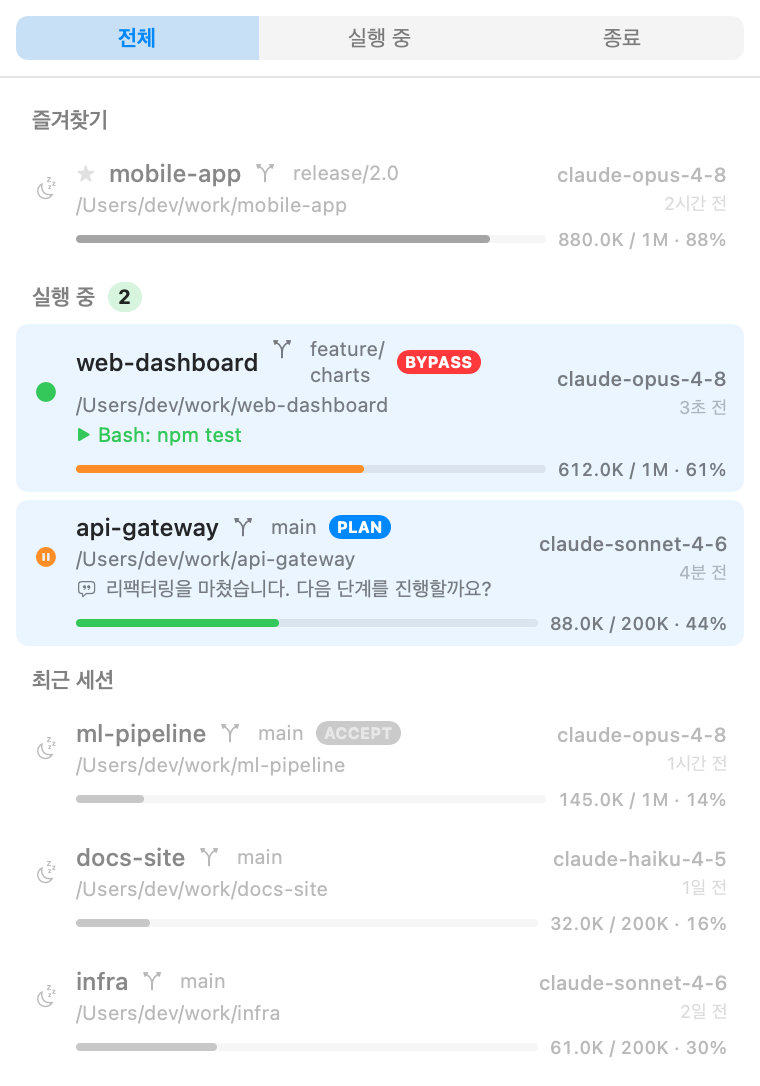
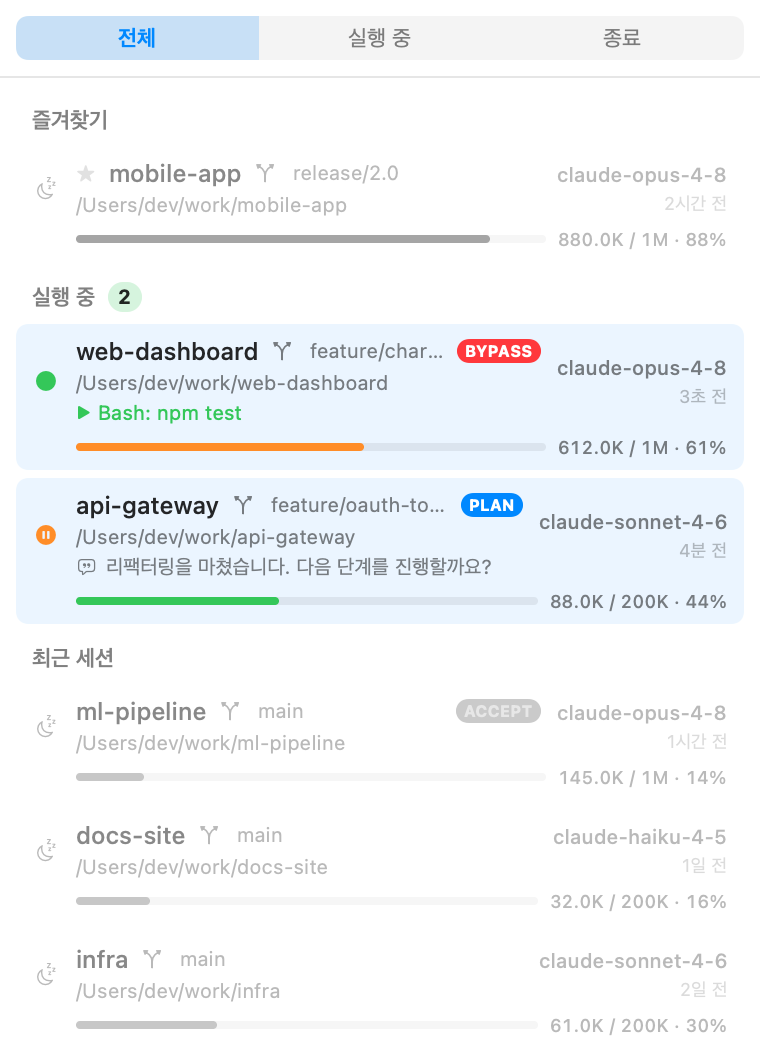
[FIX] 세션 행: 브랜치 한 줄 말줄임, 모드 뱃지 우측 정렬

diff --git a/Sources/ClaudeBar/Features/SessionListView.swift b/Sources/ClaudeBar/Features/SessionListView.swift
@@ -156,11 +156,20 @@ private struct SessionRow: View {
                         Text(session.folderName)
                             .font(.system(size: 12, weight: .medium))
                             .lineLimit(1)
+                            .fixedSize()                 // keep the name intact
+                        // Branch fills the row and truncates with … only when it
+                        // actually overflows; if there's no branch, a Spacer holds
+                        // the place. Either way the mode badge sits at the right.
                         if let branch = session.gitBranch, branch != "HEAD" {
                             Label(branch, systemImage: "arrow.triangle.branch")
                                 .font(.system(size: 10))
                                 .foregroundStyle(.secondary)
                                 .labelStyle(.titleAndIcon)
+                                .lineLimit(1)
+                                .truncationMode(.tail)
+                                .frame(maxWidth: .infinity, alignment: .leading)
+                        } else {
+                            Spacer(minLength: 4)
                         }
                         if let mode = modeBadge {
                             Text(mode.text)
@@ -170,6 +179,7 @@ private struct SessionRow: View {
                                 .padding(.vertical, 1)
                                 .background(mode.color)
                                 .clipShape(Capsule())
+                                .fixedSize()
                         }
                     }
                     Text(session.cwd)
@@ -191,8 +201,7 @@ private struct SessionRow: View {
                         .foregroundStyle(session.status == .busy ? Color.green : Color.secondary)
                     }
                 }
-
-                Spacer(minLength: 4)
+                .frame(maxWidth: .infinity, alignment: .leading)
 
                 VStack(alignment: .trailing, spacing: 2) {
                     Text(Format.model(session.model))

diff --git a/Sources/ClaudeBar/MockData.swift b/Sources/ClaudeBar/MockData.swift
@@ -48,7 +48,7 @@ enum MockData {
             session("web-dashboard", branch: "feature/charts", model: "claude-opus-4-8",
                     ctx: 612_000, limit: 1_000_000, status: .busy, live: true, agoSec: 3,
                     activity: "Bash: npm test", mode: "bypassPermissions"),
-            session("api-gateway", branch: "main", model: "claude-sonnet-4-6",
+            session("api-gateway", branch: "feature/oauth-token-refresh", model: "claude-sonnet-4-6",
                     ctx: 88_000, limit: 200_000, status: .waiting, live: true, agoSec: 240,
                     activity: isEnglish ? "Refactor done. Shall I move on to the next step?"
                                         : "리팩터링을 마쳤습니다. 다음 단계를 진행할까요?",

diff --git a/docs/change-log/2026-06-12.md b/docs/change-log/2026-06-12.md
@@ -288,6 +288,15 @@
 ### 변경 파일
 - `Services/TokenManager.swift`(신규), `Services/OfficialUsageService.swift`(TokenManager 사용)
 
+## [FIX] 세션 행 브랜치/모드 뱃지 레이아웃
+
+증상: git 브랜치가 두 줄로 줄바꿈되고 모드 뱃지가 그 옆에 떠 보임.
+
+수정: 좌측 컬럼을 `maxWidth: .infinity`로 채우고, **브랜치 Label을 한 줄(`lineLimit(1)` + `.tail` 말줄임)**로 — 넘칠 때만 `…`. 브랜치가 공간을 채우며(브랜치 없으면 Spacer) **모드 뱃지를 우측 끝으로** 밀어냄. 폴더명은 `fixedSize`로 보존.
+
+### 변경 파일
+- `Features/SessionListView.swift`, `MockData.swift`(스크린샷용 브랜치), `docs/images/sessions.png`·`ko/`
+
 ## 이슈/논의
 - OAuth 직접 refresh 네트워크 경로는 만료 시에만 발동 → 실토큰 회전 위험으로 라이브 테스트는 미실시(엔드포인트/파라미터는 리서치 확인, 키체인 쓰기는 무손실 검증).
 - `/api/oauth/usage`는 비공식 엔드포인트라 스키마/동작이 예고 없이 바뀔 수 있음. 토큰 만료 시 자동 refresh는 미구현(Claude Code 사용 시 Keychain 토큰이 갱신됨에 의존).
